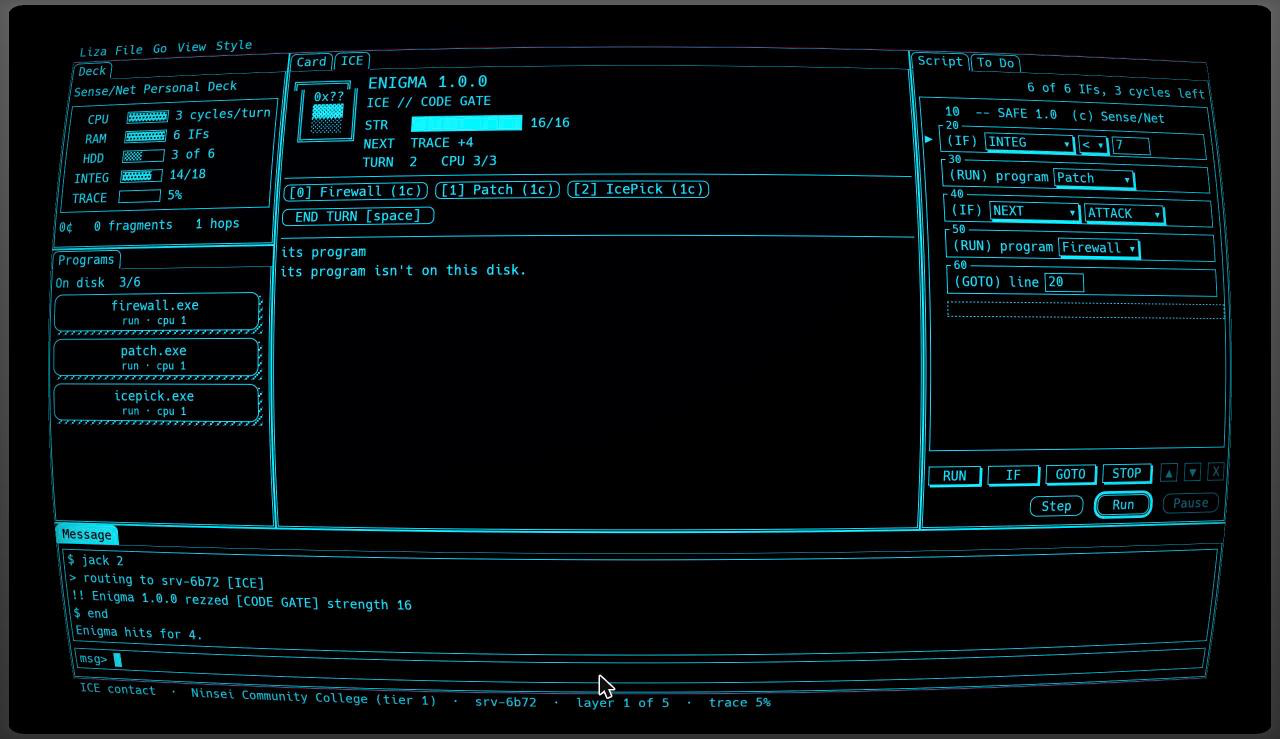
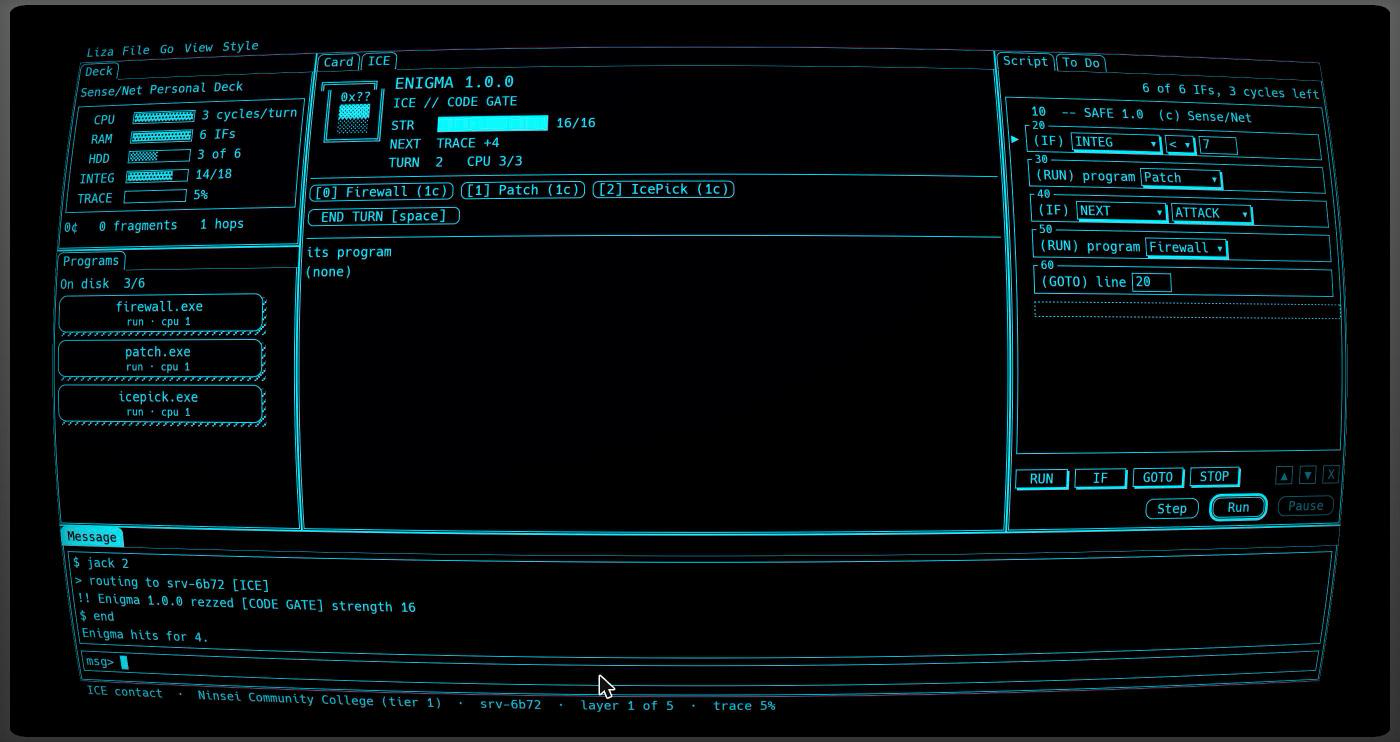
fix: no source names no disk: the stack says (none), the ICE DB source none
A source is the ICE DB's and the IDE's data, never a program on the deck, so neither screen points at the disk; the words test now forbids it. Shots retaken.

Changed region(s): [[0.0312, 0.0311, 0.9688, 0.9648], [0.6875, 0.8714, 0.875, 0.9337], [0.625, 0.8714, 0.6875, 0.9026]]

diff --git a/crates/core/src/icedb.rs b/crates/core/src/icedb.rs
@@ -174,11 +174,11 @@ impl<'a> Entry<'a> {
     }
 
     /// The newest source you own, listed whole and marked against the one before it you own;
-    /// with none, a line saying there's none on disk.
+    /// with none, a line saying there's none.
     pub fn listing(&self) -> Vec<PageLine> {
         if self.sources.is_empty() {
             return vec![PageLine {
-                text: "source         none on disk".into(),
+                text: "source         none".into(),
                 muted: true,
             }];
         }
@@ -186,7 +186,7 @@ impl<'a> Entry<'a> {
     }
 
     /// The changelog under the listing: a row per version you've met or own the source of (its
-    /// number, how it was made, the fights it won and lost, whether its source is on disk),
+    /// number, how it was made, the fights it won and lost, whether you own its source),
     /// newest first, then each older source you own, marked against the one before it. Empty
     /// until there are two versions to list.
     pub fn changelog(&self) -> Vec<PageLine> {

diff --git a/crates/core/tests/ice_listing.rs b/crates/core/tests/ice_listing.rs
@@ -279,17 +279,14 @@ fn each_deck_says_there_is_no_source_in_its_own_words() {
         ("hosaka", suite::ICE_WORDS),
         ("classic", ice_listing::CLASSIC),
     ];
-    assert_eq!(
-        stack_fight::ICE_WORDS.none,
-        "its program isn't on this disk."
-    );
+    assert_eq!(stack_fight::ICE_WORDS.none, "(none)");
     assert_eq!(btop_fight::ICE_WORDS.none, "[ no source available ]");
     assert_eq!(suite::ICE_WORDS.none, "PROGRAM HAS NO SYMBOL TABLE");
     for (deck, w) in decks {
         // What is there, never where to get one or that one can be got, never a count.
         let none = w.none.to_lowercase();
         for coach in [
-            "download", "board", "bbs", "buy", "get", "find", "line", "seen",
+            "download", "board", "bbs", "buy", "get", "find", "line", "seen", "disk",
         ] {
             assert!(!none.contains(coach), "{deck}: {:?}", w.none);
         }

diff --git a/crates/core/tests/ice_changelog.rs b/crates/core/tests/ice_changelog.rs
@@ -243,7 +243,7 @@ fn with_no_source_the_page_says_so_and_shows_no_code() {
         .filter(|l| l.muted)
         .map(|l| l.text)
         .collect();
-    assert_eq!(muted, ["source         none on disk"]);
+    assert_eq!(muted, ["source         none"]);
     for stmt in ["SHIELD", "TRACE 10", "ATTACK 4", "TRACE 4"] {
         assert!(!p.iter().any(|l| l.contains(stmt)), "{stmt}: {p:#?}");
     }
@@ -336,10 +336,7 @@ fn a_source_of_another_program_at_the_version_met_is_not_that_version_s() {
     let mut s = met_twice(&[]);
     s.ice_sources.push(source(v101(), V102));
     let p = page(&s, &d);
-    assert!(
-        p.contains(&"source         none on disk".to_string()),
-        "{p:#?}"
-    );
+    assert!(p.contains(&"source         none".to_string()), "{p:#?}");
     assert!(!p.iter().any(|l| l.contains("TRACE 5")), "{p:#?}");
     let rows = at(&p, "versions");
     assert_eq!(

diff --git a/crates/core/src/stack_fight.rs b/crates/core/src/stack_fight.rs
@@ -35,11 +35,12 @@ impl BlockKind {
     }
 }
 
-/// The ICE card's words for the ICE's program, the stack's: everything labelled, in plain
-/// words.
+/// The ICE card's words for the ICE's program, the stack's: everything labelled, and a field
+/// with nothing in it says `(none)` under its label, as a Get Info window would. It names no
+/// disk: a source isn't a program the deck carries.
 pub const ICE_WORDS: crate::ice_listing::IceWords = crate::ice_listing::IceWords {
     heading: "its program",
-    none: "its program isn't on this disk.",
+    none: "(none)",
 };
 
 /// The palette row, in order.

diff --git a/crates/core/tests/ice_shown_acceptance.rs b/crates/core/tests/ice_shown_acceptance.rs
@@ -100,7 +100,7 @@ fn the_ice_db_shows_only_the_sources_you_own() {
             "{}",
             page[0]
         );
-        assert!(page.contains(&"source         none on disk".to_string()));
+        assert!(page.contains(&"source         none".to_string()));
         for (_, _, program) in met.iter().filter(|(id, ..)| *id == e.def.id) {
             for stmt in statements(&e.def.id, program) {
                 assert!(

diff --git a/crates/core/tests/icedb.rs b/crates/core/tests/icedb.rs
@@ -105,7 +105,7 @@ fn a_fight_fills_in_its_entry() {
     let page = e.lines(&s, &d).join("\n");
     assert!(page.contains(e.def.class.label()));
     assert!(
-        page.contains("source         none on disk"),
+        page.contains("source         none"),
         "fighting it got no code: {page}"
     );
     // Fought again and lost: met twice, broken once.

diff --git a/docs/design.md b/docs/design.md
@@ -197,7 +197,7 @@ One pass through the program is one turn: start at the first line and run until 
 
 **NEXT is a dry run.** What the card telegraphs is the ICE's program walked from where it is to its first action, its IFs read against the fight as it stands, with no side effects and nothing from the RNG; it is asked again whenever it's shown or read, so it changes during your turn when you change what the ICE reads. Shield against Enigma (`10 IF TARGET SHIELD > 0` / `20 TRACE 10` / `30 ATTACK 4`) and its NEXT turns from ATTACK to TRACE on screen before it acts; that flip is the point, the preview being the rule. Lagged, or a program that would stall or run out of RAM first, has no NEXT. Only the next move is known: past it the ICE reads the fight as it will be then, so no screen lists moves ahead.
 
-**The ICE's code is downloaded, never watched** (141.11; 141.3.2 first showed what the deck had seen it run). Fighting an ICE reveals none of its program, on any deck, in the log or in the ICE DB: no line, no line count, no cursor. The listing is the **source** of the version in front, if the save owns it (`Save::ice_sources`, one per kind and version; a run takes them in at jack-in, and one got in a run comes home even on a flatline), or nothing at all. Owning 1.2.0 says nothing of 1.2.1. With the source every screen lists the program whole, with a mark on the line it carries on from and NEXT's line emphasised: the Sense/Net's ICE card under the hotbar (`its program`); the Ono-Sendai's fight view three lines under NEXT and `target.ice` a window under `PROG`, in btop's lowercase; the Hosaka's incident report a PROCEDURE table (step, statement) straight after its form, before the strength chart. Without it each deck says so as its software would and says no more, never where to get one: the stack `its program isn't on this disk.`, gdb's `[ no source available ]`, Turbo Debugger's `PROGRAM HAS NO SYMBOL TABLE`, the classic panes `NO SOURCE.`. The log keeps what the ICE did and drops which line did it (`Enigma hits for 4.`, not `Enigma 30 ATTACK 4: hits for 4.`; its IFs and GOTOs aren't said); with the source it reads as a debugger's trace again. **The telegraph is free**: NEXT, the fight view's charge ring and `IF NEXT …` work with no source, so a fight without one is playable but blind to the ICE's logic. A source is the ICE DB's and the IDE's data, a file and not a program: it takes no HDD slot and no stash room, and a fight shows it with or without the ICE DB. A new deck owns none, so its first fights are blind. Nothing in the game hands one out yet: the boards will carry them (141.11.2).
+**The ICE's code is downloaded, never watched** (141.11; 141.3.2 first showed what the deck had seen it run). Fighting an ICE reveals none of its program, on any deck, in the log or in the ICE DB: no line, no line count, no cursor. The listing is the **source** of the version in front, if the save owns it (`Save::ice_sources`, one per kind and version; a run takes them in at jack-in, and one got in a run comes home even on a flatline), or nothing at all. Owning 1.2.0 says nothing of 1.2.1. With the source every screen lists the program whole, with a mark on the line it carries on from and NEXT's line emphasised: the Sense/Net's ICE card under the hotbar (`its program`); the Ono-Sendai's fight view three lines under NEXT and `target.ice` a window under `PROG`, in btop's lowercase; the Hosaka's incident report a PROCEDURE table (step, statement) straight after its form, before the strength chart. Without it each deck says so as its software would and says no more, never where to get one: the stack `(none)` under its heading, gdb's `[ no source available ]`, Turbo Debugger's `PROGRAM HAS NO SYMBOL TABLE`, the classic panes `NO SOURCE.`. The log keeps what the ICE did and drops which line did it (`Enigma hits for 4.`, not `Enigma 30 ATTACK 4: hits for 4.`; its IFs and GOTOs aren't said); with the source it reads as a debugger's trace again. **The telegraph is free**: NEXT, the fight view's charge ring and `IF NEXT …` work with no source, so a fight without one is playable but blind to the ICE's logic. A source is the ICE DB's and the IDE's data, a file and not a program: it takes no HDD slot and no stash room, and a fight shows it with or without the ICE DB. A new deck owns none, so its first fights are blind. Nothing in the game hands one out yet: the boards will carry them (141.11.2).
 
 **ICE that attack the program** (141.3.3). Two verbs hit your program rather than your deck, so the answer is a better program, never a number:
 - **`SPOOF n`** hides the ICE's NEXT for the next n turns: every deck reads `???`, `IF NEXT …` is false (and still spends its GB), and the listing marks no NEXT line. The counter is a program that guards on INTEG instead, or the **sniffer**, RAZORWIRE's warez on Dead Sector, whose RUN clears the spoof.
@@ -215,7 +215,7 @@ A reader of the ICE's listing can predict both *when* and *where* (Archer SPOOFs
 - **The sysops simulate your script.** The rules book every fight of a run (a **bout**): how it opened (the deck's integrity and trace, the ICE's strength), the version it ran, and the deck as the ICE's conditions read it at each of its turns (a **tell**); the run's history and graphs don't feed it. When the deck beats a kind's version in force, its sysops wake with what they logged: the deck's numbers and programs, its script as the fight opened (not what the fight's SEGFAULTs left of it), and how that fight opened. They draft versions and fight each one against the script in the real game, from every start they kept (the latest six), and the first draft that costs the deck more than the version in force does (integrity lost, as a percent of its most, plus trace gained) by the bar ships. Least effort is the bound: they stop at the first draft over the bar, never the best, and try patches first, then minors, then majors. After their patience they rest without shipping. They rest on a kind once it ships, until the deck beats the version in force again; a new script starts a new search at patches. They only know the script: turns played by hand from the hotbar are how you stay unpredictable. **An ICE that kills you doesn't evolve**: the kind whose fight ended the run did its job, and its sysops rest. Drafts lean on the reads the script walked into in their duels. The ICE's machine is the only cap on how strong a version gets: with a few lines, its RAM and its verbs, it can't counter every move, which is why it has to keep evolving. A machine must hold a counter to the lazy program, though: SAFE_PICK raises two firewalls a turn (shield 10) whenever the ICE is next to attack, so Rototurret, whose only verb is Attack, has a range that reaches past 10. The bar, the pace and the patience are in `tuning.rs`.
 - **On the clock, mid-run too.** The sysops work on the game's running time, whether you're playing, reading or away from the keyboard: each kind under study gets a draft every five seconds (`STUDY_DRAFT_MS`), so a version usually lands within minutes of the deck beating its kind, and time with nobody studying banks nothing. A version that ships is in force on every net from the next fight with that kind, in the middle of a run if that's when it lands; a fight under way keeps the version it opened on, and its card says so. It is met knowing none of its lines, whatever source of the last the deck owns. What a version contains comes from the save's key, the kind, the version, the draft's number and the deck that beat it, so the same save and script reach the same versions however the time was sliced; only when they land depends on the clock. Every draw passes the check the row's own program passed; one that doesn't is drawn again, and when nothing of that size fits, a smaller change is made, or none.
 - **The version is where the name is.** Every fight screen that names its ICE names its version beside it: the Sense/Net's ICE card (`ENIGMA 1.1.1`), the Ono-Sendai's fight view and `target.ice`, the Hosaka's SUBJECT row and ICE watch, and the rez line in the log (`!! Enigma 1.1.1 rezzed`). 1.0.0 shows too: the number is the player's to read. The map names no ICE, only its class, so it shows no version. The step lines keep the bare name.
-- **The ICE DB is a changelog of the sources you own.** A kind's page heads with the version last met (`Enigma 1.1.1  [CODE GATE]  ICE`) and its fight record, then lists the newest source you own (`source         1.1.0, against 1.0.0`), or `none on disk`. It is marked against the next older source you own, a block at a time (an IF and its line, or a line on its own: the unit a version changes): a block is `~` if the older version had it elsewhere, `+` if it didn't, and a block that kept its read but changed inside is marked line by line; the older version's lines that are gone follow as `-`. The heading names the version its marks are against, which may not be the one it was made from. Under it, a row per version met or owned (its number, `patch`/`minor`/`major`, won and lost, `-` if never met, and whether its source is on disk), then each older source. A version met without its source has its number and record and no code.
+- **The ICE DB is a changelog of the sources you own.** A kind's page heads with the version last met (`Enigma 1.1.1  [CODE GATE]  ICE`) and its fight record, then lists the newest source you own (`source         1.1.0, against 1.0.0`), or `none`. It is marked against the next older source you own, a block at a time (an IF and its line, or a line on its own: the unit a version changes): a block is `~` if the older version had it elsewhere, `+` if it didn't, and a block that kept its read but changed inside is marked line by line; the older version's lines that are gone follow as `-`. The heading names the version its marks are against, which may not be the one it was made from. Under it, a row per version met or owned (its number, `patch`/`minor`/`major`, won and lost, `-` if never met, and whether you own its source), then each older source. A version met without its source has its number and record and no code.
 - **The world says so.** Nothing on the deck announces a new version; the boards do, in their own voice, as a bulletin after their own (`ice_news` in `board.ron`). The Gutter's ICE WATCH hears tier 1 and black ICE, in m0th's l33t ("rewritten from scratch. Throw out your notes."). Dead Sector's NEW BUILDS hears the black builds and kr4ken, short and paranoid. CorpLink's PERIMETER UPDATES are release notes from the Office of Information Security, which never calls it ICE. Sense/Net's customer line hears nothing. A rumour says a kind changed and how big the change was, never what it now does, so a new version is still met unknown. With nothing new, each board says so in its voice.
 
 **The probe.** The careful bot's strategy is written in the game's BASIC (`probe::CAREFUL`: defend first, then the breaker made for the ICE, then the strongest it carries), and the probe plays through the same interpreter. It is the bot's own program, not the kit's: it buys the specialists, so it names them. If the bot can't say it in the language, players can't either. The dumb bot is `10 RUN icepick` / `20 GOTO 10`, the program that loses from tier 2. The third is `probe::SAFE_PICK`, the starter's SAFE with `55 RUN icepick` typed in, the first program a player writes: ICE that read the deck make it lose at tier 2 (57% out on the starter deck, 55% in careers, and 30% against the versions its careers shipped). The report gives each program's exits, traced, ICE and black ICE deaths and turns per fight per tier, and plays the careers again with SAFE_PICK. Spot runs dial from a fresh save, so they meet 1.0.0 and compare with earlier reports. The careers face evolving ICE. The careful bot rotates through three programs (`CAREFUL`, `CAREFUL_B` without the firewall, `CAREFUL_C` breakers first) when a kind it met is patched or ICE kills it, as a player rewrites; SAFE_PICK never changes, since it is the lazy program the versions are written against. The report adds the versions shipped per kind, the careful exits by how many kinds were patched, and SAFE_PICK's spot runs played again against the versions its careers shipped, beside the 1.0.0 rows. The probe has no clock: its bots take 3 s an action and a minute at home a run (`PROBE_ACTION_MS`, `PROBE_HOME_MS`), the sysops work that time at their own pace, and the report prints the pace and the drafts a version cost. It ends with a met/unmet line per target: tier-1 versions beat the lazy program more than 1.0.0 does, and every tier-1 kind ships a version. The careful careers' exits are reported, never judged: evolving ICE are meant to make the game harder.

diff --git a/docs/architecture.md b/docs/architecture.md
@@ -49,7 +49,7 @@ Monitors and decks live in `data/hub/hardware.ron` (`HardwareDef::validate`); wh
 - **System is the settings app** (it replaced Prefs; `Tool::System`, `open prefs` still opens it). What its panels report is worked out in core (`crates/core/src/system.rs`: `system::overview` gives the OS, deck, firmware, each spec with its level and next upgrade, and installed tools with their `version` from `tools.ron`, then each owned copy of a game by its label, with the version from `games.ron`), tested there. Each desktop wears its own look, picked from the firmware's `Desktop` in `crates/app/src/system.rs`: Liza a System 6 Control Panel (the panels in the Liza kit's list box, the open `system::Panel` on the right, its switches the kit's check boxes and radio buttons), Desktop Workbench 1.3 Preferences (the Workbench kit's toggle gadgets across the top, solid-colour map), AnarchyOS a keyboard-first text-mode TUI (`crates/app/src/system_tui.rs`: written on the kit's `Sheet` and painted in its own 13pt type, tabs on 1-4 and `[`/`]` (never Tab, which moves the focus), neofetch About with the OS logo from `data/hub/fetch.ron` (`system::FetchDef`, `system::logo`), a text block map; every key has a click, keys live while the tile is focused via `SystemUi::keys`). All send the same `WbOut`s. Only the software you own is listed. **Disk** (`system::Panel::Disk`, it replaced STASH; `open stash` opens it) is the loadout as a block map: core's `disk.rs` works out what's installed in load order (`disk::installed`, the same programs `Save::kit` loads), the box beside it (`disk::shelf`), the map (`disk::map`, `BLOCKS_PER_SLOT` blocks a slot, display only), the RAM strip (`disk::ram_preview`), and `Save::install`/`remove`/`install_blocker`, all tested there; each kind's fill is data (`data/hub/disk.ron`, patterns from `data/patterns.ron`). **The loadout is remembered:** `Save::kit` passes each program's stash id (`Kit::origins`), the run keeps them (`Game::from_stash`, by slot uid), the exit's picker starts from `Game::loadout_keep`, and `Save::record` brings a kept one home under its old id so it stays installed; what didn't come home drops off `loadout.stash`. Tested in `crates/core/tests/loadout.rs`. **Fragmentation is saved** (`Save::disk_map`, block by block; empty means end to end): `disk::layout` keeps programs where they lie and gives new ones the first free blocks, `disk::fragmentation` is the share of split programs, `Save::fragment` scatters them (the hook for ICE that fragments your HDD, #125), and Defragment plays `disk::defrag_steps` (one swap a frame, paced by `system::anim`, display only) then `Save::defragment`.
 - **Tools are downloaded, never built in.** Desktop tools live in `data/hub/tools.ron` (`ToolDef`, ids in `data::TOOLS`); a board sells one as `Drop::Tool(id)`, and an `always: true` area stocks every file with no roll (it never touches the RNG). Owned tools are `Save::tools` and `Game::tools` (from `Kit::tools`, plus downloads, booked by `Save::record` even on a flatline). Until owned, a tool isn't there at all: no icon, menu item, tab, pane or command, and no hint from the OS (`Save::opens`, `Save::has_tool`, `Game::has_tool`, `command::parse_in`/`verbs`/`help`, `hub::shell` and `shell_complete`). Only the boards' textfiles (`Drop::Text`, read on a `Screen::Read`, lines in the board's `texts`) say where to get them. A textfile downloaded from its Read screen goes on `Game::texts`/`Save::texts` (`Save::keep_text`).
   - The QWK reader (`crates/core/src/qwk.rs`, `qwk::Reader`, drawn by `bbs_view::paint_screen`, the one 80x24 terminal painter, on the kit's `Cells` at 13pt with 15px rows, runs of glyphs through `Cells::run` and block art through `Cells::block`, in `Tool::Qwk`'s window) lists each known board's bulletins and kept textfiles, 78x24 like a BBS screen (`every_reader_screen_fits_the_terminal`).
-  - The ICE database (`crates/core/src/icedb.rs`, drawn by `hubtools::icedb` in `Tool::IceDb`'s window) reads `Save::ice_seen` for the fight record and `Save::ice_sources` for the code (`Entry::sources`, newest first, one per version). A kind you met or own a source of is named; its page heads with the version last met (or the newest source), and `Entry::listing` prints the newest source you own whole, marked against the next older one you own, or `none on disk` (muted). `Entry::changelog` adds a row per version met or owned (its record, `-` when never met, and `src`) and each older source, marked against the one before it. Every listing's marks come from `ice_listing::changes(verbs, prev, now)` (pure, two whole programs). It works on blocks (`units`: an IF and its line, or one line), aligned by the common run that keeps the most lines, then the most blocks at their numbers. A leftover block of `now` is `Mark::Moved` when an equal leftover of the version before is there for it. With the same read, it is paired and marked line by line. Otherwise it is `Mark::New`. The version before's leftover lines are `Mark::Removed`. A listing's heading names the version its marks are against. Marks print as a one-cell column (`Mark::glyph`).
+  - The ICE database (`crates/core/src/icedb.rs`, drawn by `hubtools::icedb` in `Tool::IceDb`'s window) reads `Save::ice_seen` for the fight record and `Save::ice_sources` for the code (`Entry::sources`, newest first, one per version). A kind you met or own a source of is named; its page heads with the version last met (or the newest source), and `Entry::listing` prints the newest source you own whole, marked against the next older one you own, or `none` (muted). `Entry::changelog` adds a row per version met or owned (its record, `-` when never met, and `src`) and each older source, marked against the one before it. Every listing's marks come from `ice_listing::changes(verbs, prev, now)` (pure, two whole programs). It works on blocks (`units`: an IF and its line, or one line), aligned by the common run that keeps the most lines, then the most blocks at their numbers. A leftover block of `now` is `Mark::Moved` when an equal leftover of the version before is there for it. With the same read, it is paired and marked line by line. Otherwise it is `Mark::New`. The version before's leftover lines are `Mark::Removed`. A listing's heading names the version its marks are against. Marks print as a one-cell column (`Mark::glyph`).
   - **The phone tools, one per board tier.** CarrierTerm (`hubtools::carrierterm`) is a plain directory with a splash (`data/intros/carrierterm.ron`, a `tagline` instead of greetz, played by `Home::splash_gate`): boards and networks listed, searched, filtered and stepped through by core's `directory.rs` (tested there), a card per line with a big Dial/Call button, and a dialing card with Hang up (`Home::dial_cut` cuts the modem). NiGHTCOMM (`Tool::NightComm`, the `nightcomm` tool from Dead Sector) is the hacker's dashboard, btop on a cell grid (`nightcomm_view.rs`, drawn with `cells::Cells`: whole cells, box titles cut into borders, key hints in the bottom border): heat and each number's last results (`Entry::last`), a wardialer with a block map (`Save::finds`, booked by `Save::wardial`; it replaces CarrierTerm's WarDial tab and needs no WARDIAL, `Save::can_wardial`) and the ranges you know, and TERM, a Hayes terminal on `ninsei-term`'s `LineEditor` (core's `at.rs`: `at::parse`, `at::run` turns a line into reply lines and an `at::Effect` the app carries out through `WbOut::At`; `Save::atdt` dials one number by hand, billed `Save::call_price`, answering exactly as its block would in a scan because `dial_block`'s draws never depend on what you already know); what it shows is worked out in core's `nightcomm.rs` and tested there. The Shell's `phonebook` shows heat only with it. Tier and traits are Tiger Team Pro's (`Tool::TigerTeam`, the `tigerteam` tool, a site licence on CorpLink), the corporate audit suite drawn as a Turbo Vision application (`tigerteam_view.rs`: a menu bar of sections, a double-framed window with a drop shadow, a status line; `Cells::vision` squares the corners and sets titles in the border). It does everything NiGHTCOMM does (`Save::has_dialer`; its Reconnaissance, Address Space and Console are NiGHTCOMM's pages, `nightcomm_view::{wardial, ranges, term}`, in its frame, with their own state on `TigerTeam::nc`) and writes up each number in core's `tigerteam.rs` (`tigerteam::profile`: tier, layers, ICE, trace, pay, board; each trait's `finding` and `severity` from `networks.ron`; an `Exposure` rating), tested there. The Shell's `phonebook` shows tier and traits only with it.
   - Text-mode tools lay out on the kit's `Cells` (`crates/app/src/kit/cells.rs`), never egui spacing. Desktop icons that don't fit one column start another (Liza's to the left, Desktop's along the right edge).
 - **The kit** (`crates/app/src/kit/`) is the one layer every fake app draws with. Its text-mode parts (`cells`, `list`, `fit`, `sheet`) own geometry and behaviour and leave the look to the caller; a desktop's GUI idiom is that desktop's parts, drawn to its spec sheet in `docs/refs/`: `anarchy` (AnarchyOS: tiles, the bar, the launcher, the help; `docs/refs/anarchyos.md`) and `liza` (System 1: the window frame, the menu bar and menus, the scroll bar and its scrolled view, the list box, push buttons with the default ring, check boxes, radio buttons, and HyperCard's text field, pop-up menu and dotted drop slot, a horizontal slider (`hslider`, a scroll bar used to set a value) and a `thermometer`, in a `kit::liza::Look` of the theme's ink and paper and the patterns; shared by the Liza desktop, System's Control Panel and the Stack chrome's Script card; `docs/refs/liza.md`) and `workbench` (Workbench 1.3: the screen's title bar, the window frame returning its close and depth gadgets' rects so the hit tests share them, the proportional gadget a window scrolls with, the 1.3 bevel, push buttons, toggle gadgets and the requester, in a `kit::workbench::Look` of the theme's colours; and a horizontal proportional gadget used as a slider (`hprop`) and a recessed list with its gadget (`list_box`), shared by Desktop, System's Preferences and TRAX; `docs/refs/workbench.md`). What their scroll bars share (where a view stands, the thumb, paging and dragging, the wheel only when nothing covers the bar, a view scrolling beside the desktop's own bar) is `kit::scrollbar`. Either way every colour comes in from the theme, and **nothing in it names a tool or a deck** (a widget that only works by checking which app draws it belongs in that app's renderer). New screens use the kit, and a touched screen moves onto it.
